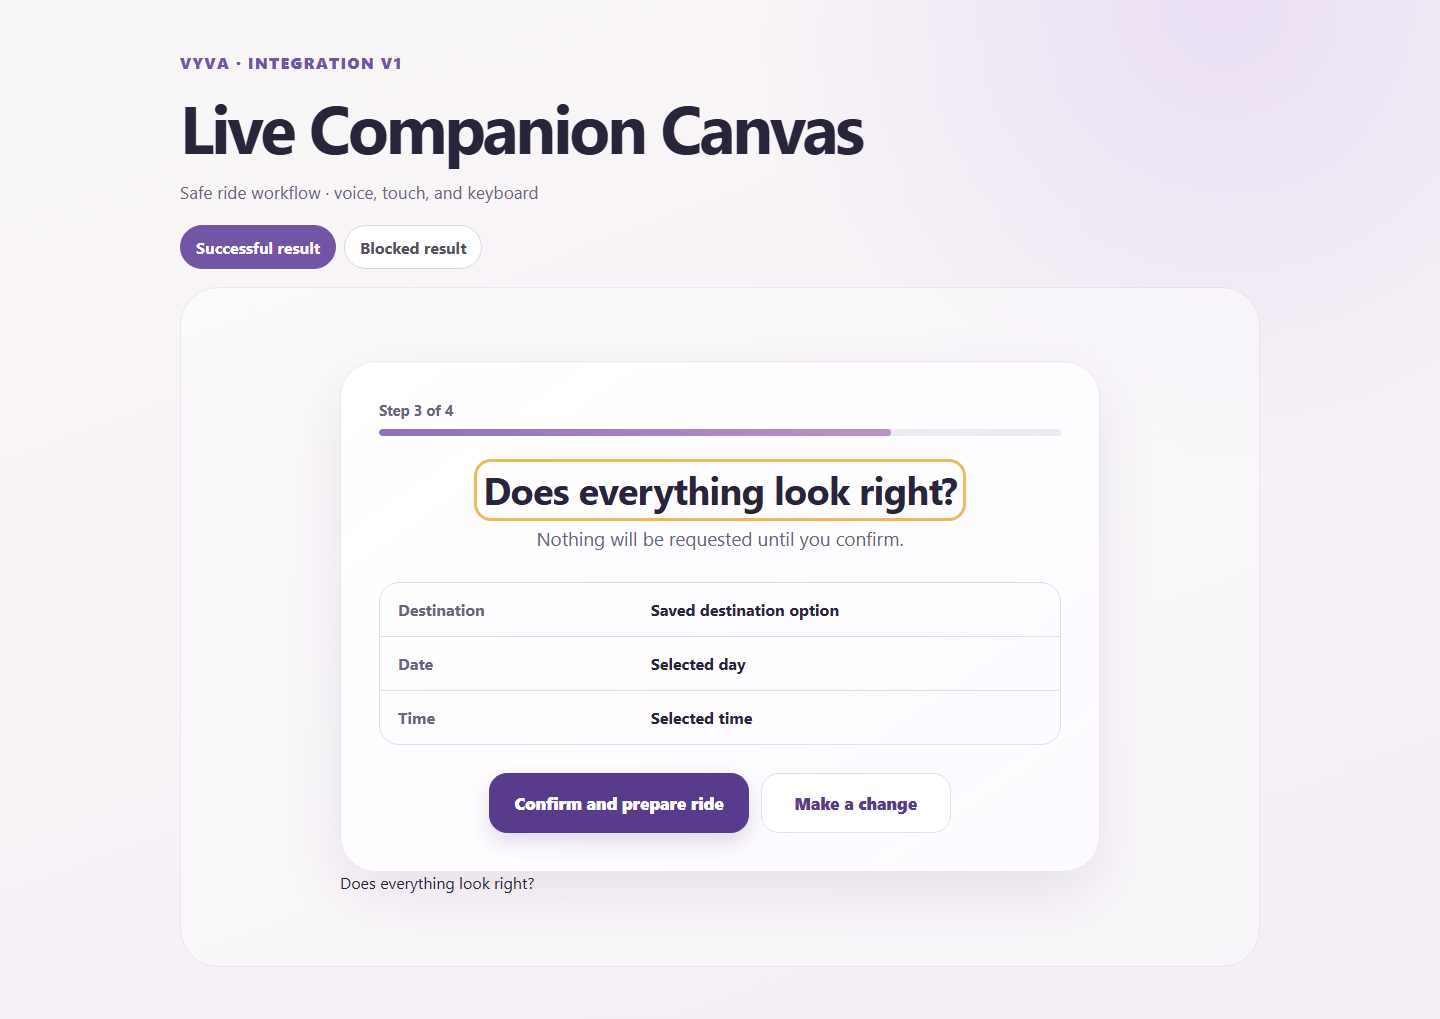
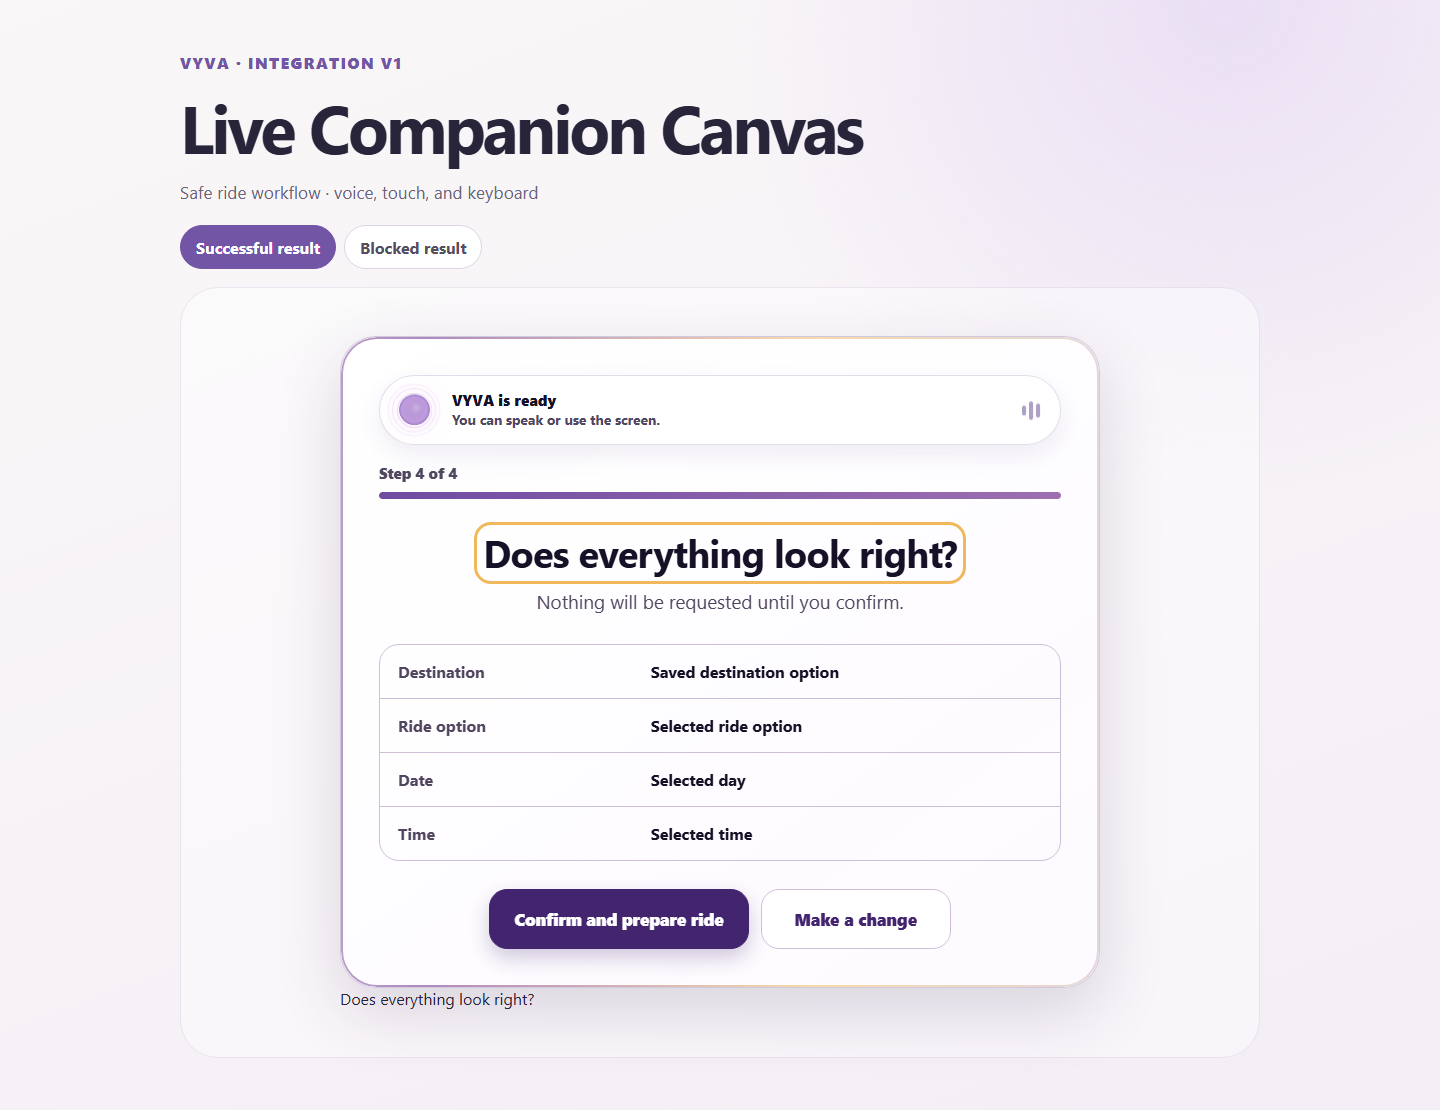
Polish voice canvas cross-page fit

diff --git a/e2e/voice-canvas-cross-page-fit.spec.ts b/e2e/voice-canvas-cross-page-fit.spec.ts
@@ -1,0 +1,88 @@
+import { expect, test } from "@playwright/test";
+
+const viewports = [
+  { name: "desktop", width: 1440, height: 1000 },
+  { name: "tablet", width: 768, height: 1024 },
+  { name: "mobile", width: 390, height: 844 },
+] as const;
+
+const flowPages = [
+  {
+    name: "ride",
+    path: "/voice-canvas-integration.html?review&evidence=sanitized",
+  },
+  {
+    name: "appointment",
+    path: "/appointment-canvas-integration.html?evidence=sanitized",
+  },
+  {
+    name: "provider-reply",
+    path: "/provider-reply-canvas.html?evidence=sanitized",
+  },
+  {
+    name: "shopping",
+    path: "/shopping-delivery-canvas.html?evidence=sanitized",
+  },
+  {
+    name: "refill",
+    path: "/medication-refill-canvas-integration.html?evidence=sanitized",
+  },
+  {
+    name: "prescription-follow-up",
+    path: "/prescription-follow-up-canvas-integration.html?evidence=sanitized",
+  },
+] as const;
+
+test.describe("Voice Canvas cross-page fit", () => {
+  for (const flow of flowPages) {
+    for (const viewport of viewports) {
+      test(`${flow.name} fits ${viewport.name}`, async ({ page }) => {
+        await page.setViewportSize({
+          width: viewport.width,
+          height: viewport.height,
+        });
+        await page.goto(flow.path);
+
+        const canvas = page.locator(".voice-canvas").first();
+        await expect(canvas).toBeVisible();
+        await expect(
+          canvas.locator(".vc-agent-presence, .vc-orb-wrap").first(),
+        ).toBeVisible();
+
+        const horizontalOverflow = await page.evaluate(
+          () =>
+            document.documentElement.scrollWidth -
+            document.documentElement.clientWidth,
+        );
+        expect(horizontalOverflow).toBeLessThanOrEqual(1);
+
+        const canvasBox = await canvas.boundingBox();
+        expect(canvasBox?.width ?? 0).toBeLessThanOrEqual(viewport.width + 1);
+
+        const undersizedButtons = await canvas.locator("button").evaluateAll(
+          (buttons) =>
+            buttons
+              .filter((button) => {
+                const style = getComputedStyle(button);
+                return style.display !== "none" && style.visibility !== "hidden";
+              })
+              .map((button) => {
+                const rect = button.getBoundingClientRect();
+                return {
+                  label: button.getAttribute("aria-label") || button.textContent?.trim() || "button",
+                  width: Math.round(rect.width),
+                  height: Math.round(rect.height),
+                };
+              })
+              .filter((button) => button.width < 44 || button.height < 44),
+        );
+        expect(undersizedButtons).toEqual([]);
+
+        await page.screenshot({
+          path: `src/dev/voice-canvas/cross-page-${flow.name}-${viewport.name}.png`,
+          fullPage: true,
+        });
+      });
+    }
+  }
+});

diff --git a/src/pages/ConciergeShoppingScreen.tsx b/src/pages/ConciergeShoppingScreen.tsx
@@ -1321,7 +1321,9 @@ const ConciergeShoppingScreen = () => {
       {shoppingCanvasEnabled && (
         <section className="mt-4 rounded-[22px] border border-[#99F6E4] bg-[#F0FDFA] p-4 shadow-[0_12px_28px_rgba(15,118,110,0.10)]" data-testid="shopping-delivery-canvas-entry">
           {shoppingCanvasOpen ? (
-            <ShoppingVoiceCanvas copy={SHOPPING_CANVAS_COPY[locale]} voiceCommands={SHOPPING_CANVAS_COMMANDS[locale]} retailers={canvasRetailers} addresses={canvasAddresses} onCancel={() => setShoppingCanvasOpen(false)} onDone={() => setShoppingCanvasOpen(false)} onConfirm={(draft, context) => executeShoppingPreparation(apiFetch, draft, { signal: context.signal, language: language || locale, messages: { prepareFailed: locale === "es" ? "No pudimos preparar la solicitud." : "We couldn’t prepare the request." } })} />
+            <div className="flex min-w-0 justify-center" data-testid="shopping-delivery-canvas-frame">
+              <ShoppingVoiceCanvas copy={SHOPPING_CANVAS_COPY[locale]} voiceCommands={SHOPPING_CANVAS_COMMANDS[locale]} retailers={canvasRetailers} addresses={canvasAddresses} onCancel={() => setShoppingCanvasOpen(false)} onDone={() => setShoppingCanvasOpen(false)} onConfirm={(draft, context) => executeShoppingPreparation(apiFetch, draft, { signal: context.signal, language: language || locale, messages: { prepareFailed: locale === "es" ? "No pudimos preparar la solicitud." : "We couldn’t prepare the request." } })} />
+            </div>
           ) : (
             <div className="grid gap-3 sm:grid-cols-[1fr_auto] sm:items-center">
               <div><h2 className="font-body text-[19px] font-extrabold text-vyva-text-1">{locale === "es" ? "Prepara una compra o entrega" : "Prepare shopping or delivery"}</h2><p className="mt-1 font-body text-[14px] font-semibold leading-relaxed text-vyva-text-2">{locale === "es" ? "Confirma artículos, cantidades, precio y entrega antes de preparar cualquier solicitud." : "Confirm items, quantities, cost, and delivery before any request is prepared."}</p></div>

diff --git a/src/pages/ConciergeScreen.tsx b/src/pages/ConciergeScreen.tsx
@@ -19232,7 +19232,7 @@ const ConciergeScreen = ({ mode = "legacy" }: ConciergeScreenProps) => {
 
             {activeActionCanRecordProviderReply || providerReplyMode ? (
               usesProviderReplyVoiceCanvas && !providerReplyMode ? (
-                <div className="mt-3" data-testid="panel-concierge-provider-reply-canvas">
+                <div className="mt-3 flex min-w-0 justify-center rounded-[28px] bg-[#F8F4FA] p-2 sm:p-4" data-testid="panel-concierge-provider-reply-canvas">
                   <ProviderReplyVoiceCanvas
                     copy={providerReplyCanvasCopy}
                     context={providerReplyCanvasContext}

diff --git a/src/pages/ConciergeScreen.test.tsx b/src/pages/ConciergeScreen.test.tsx
@@ -6772,6 +6772,7 @@ describe("ConciergeScreen route prefill", () => {
     renderScreen();
 
     const canvas = await screen.findByTestId("panel-concierge-provider-reply-canvas");
+    expect(canvas).toHaveClass("justify-center");
     expect(canvas).toHaveTextContent("Review the provider reply");
     fireEvent.click(within(canvas).getByRole("button", { name: "Start" }));
     fireEvent.click(within(canvas).getByRole("button", { name: /Confirm appointment or detail/ }));

diff --git a/src/pages/ConciergeShoppingScreen.test.tsx b/src/pages/ConciergeShoppingScreen.test.tsx
@@ -109,6 +109,7 @@ describe("ConciergeShoppingScreen", () => {
     renderScreen();
     const open = await screen.findByTestId("button-open-shopping-delivery-canvas");
     fireEvent.click(open);
+    expect(screen.getByTestId("shopping-delivery-canvas-frame")).toHaveClass("justify-center");
     expect(screen.getByTestId("shopping-voice-canvas")).toHaveAttribute("data-step", "listening");
   });
 
